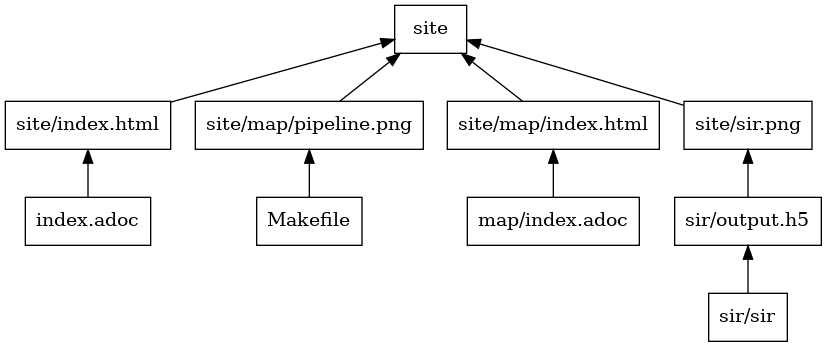
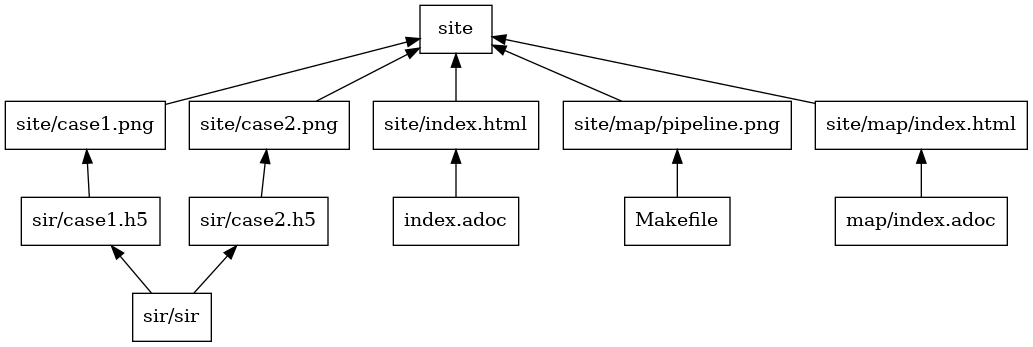
Deploy chadsgilbert/ci-data-science to github.com/chadsgilbert/ci-data-science.git:gh-pages

diff --git a/index.html b/index.html
@@ -472,21 +472,24 @@ R' = \gamma I \\
 S + I + R = N \\\]
 </div>
 </div>
-<div class="paragraph">
-<p>For simplicity, we solve this using Euler&#8217;s method.</p>
+<div class="imageblock">
+<div class="content">
+<img src="case1.png" alt="Case 1">
+</div>
+<div class="title">Figure 1. Case 1 - \beta = 0.04 and \gamma = 0.01</div>
 </div>
 <div class="imageblock">
 <div class="content">
-<img src="sir.png" alt="A matplotlib graph">
+<img src="case2.png" alt="Case 2">
 </div>
-<div class="title">Figure 1. An image</div>
+<div class="title">Figure 2. Case 2 - \beta = 0.08 and \gamma = 0.04</div>
 </div>
 </div>
 </div>
 </div>
 <div id="footer">
 <div id="footer-text">
-Last updated 2020-04-10 20:32:34 UTC
+Last updated 2020-04-10 21:51:09 UTC
 </div>
 </div>
 <script type="text/x-mathjax-config">

diff --git a/map/index.html b/map/index.html
@@ -435,7 +435,7 @@ body.book #toc,body.book #preamble,body.book h1.sect0,body.book .sect1>h2{page-b
 </div>
 <div id="footer">
 <div id="footer-text">
-Last updated 2020-04-10 20:32:34 UTC
+Last updated 2020-04-10 21:51:09 UTC
 </div>
 </div>
 </body>
